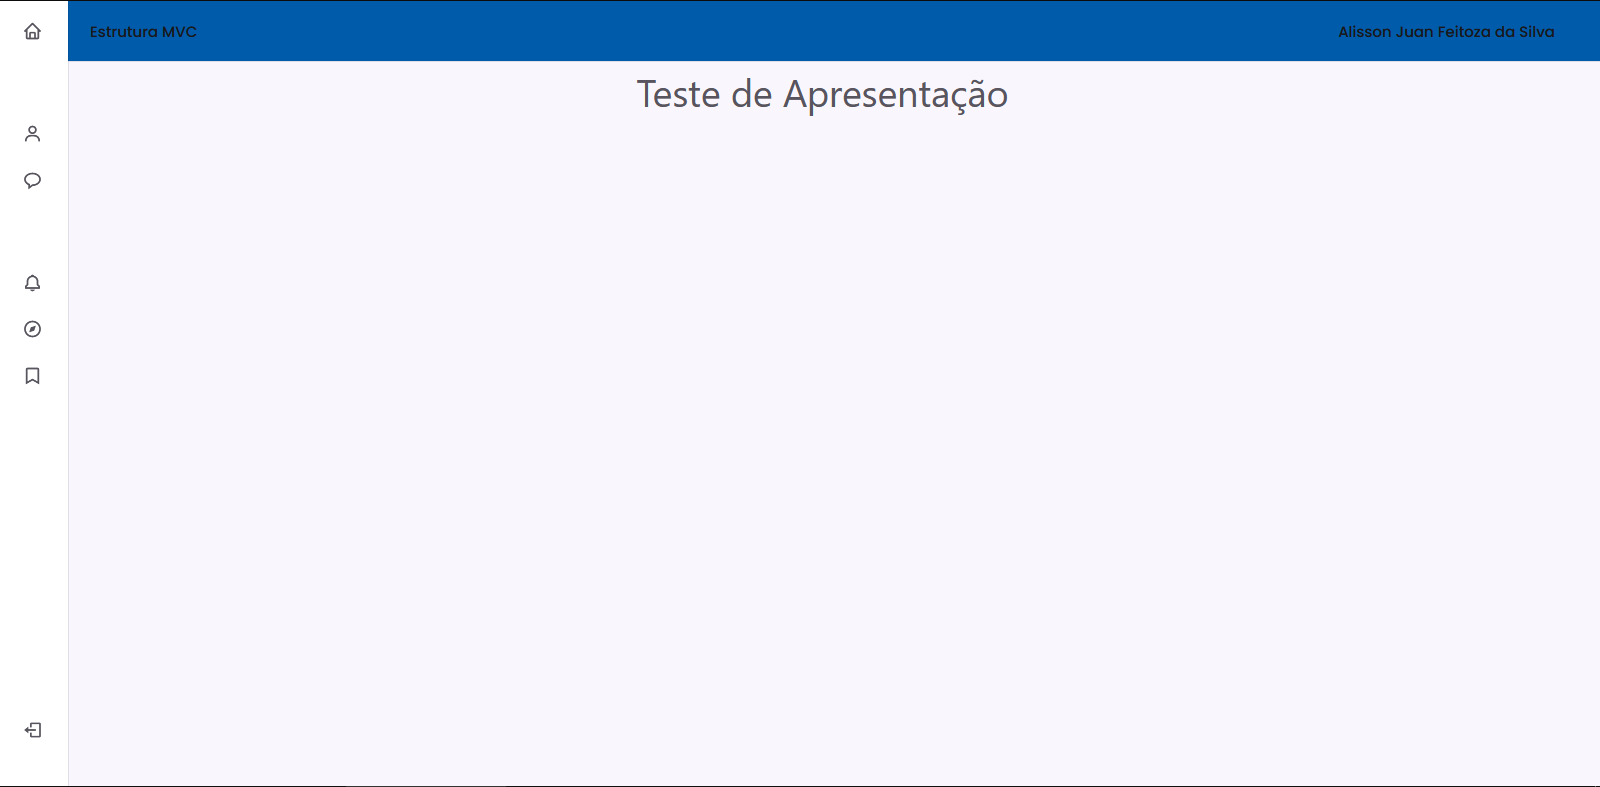
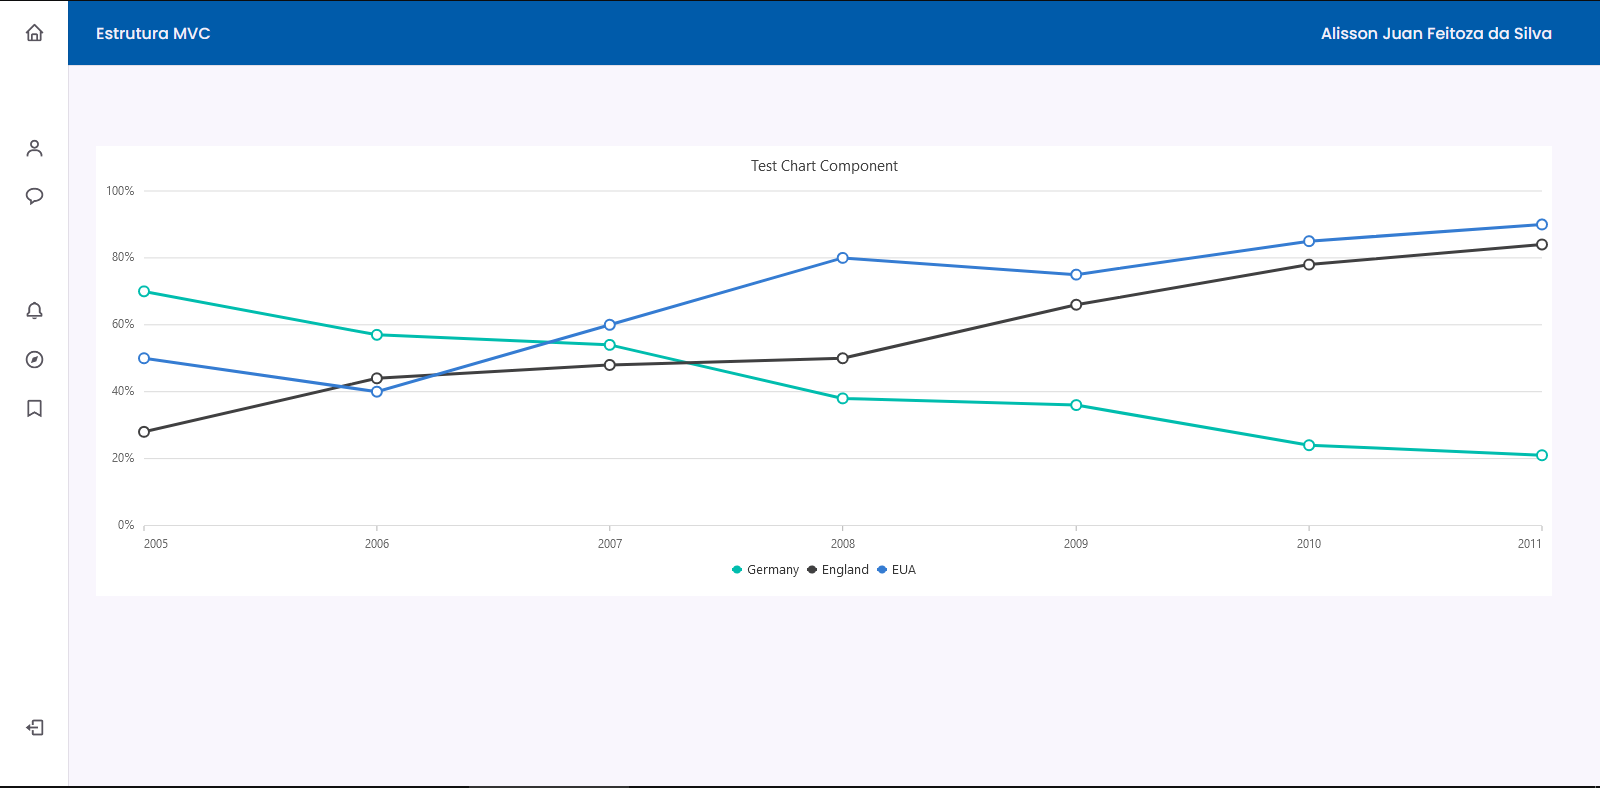
Update

diff --git a/views/index/app.vue.js b/views/index/app.vue.js
@@ -1,6 +1,6 @@
 const AppTemplate = `
 
-<div class="control-section">
+<div class="control-section" style="margin-top: 5%">
     <div align='center'>
         <ejs-chart
         style="display: block"
@@ -20,7 +20,7 @@ const AppTemplate = `
                 xName="x"
                 yName="y"
                 name="Germany"
-                width=2
+                width=3
                 :marker="marker"
                 ></e-series>
                 <e-series
@@ -29,7 +29,16 @@ const AppTemplate = `
                 xName="x"
                 yName="y"
                 name="England"
-                width=2
+                width=3
+                :marker="marker"
+                ></e-series>
+                <e-series
+                :dataSource="seriesData2"
+                type="Line"
+                xName="x"
+                yName="y"
+                name="EUA"
+                width=3
                 :marker="marker"
                 ></e-series>
             </e-series-collection>
@@ -44,13 +53,13 @@ Vue.component('AppVue', {
     data: function() {
         return {
             seriesData: [
-                { x: new Date(2005, 0, 1), y: 21 },
-                { x: new Date(2006, 0, 1), y: 24 },
-                { x: new Date(2007, 0, 1), y: 36 },
+                { x: new Date(2005, 0, 1), y: 70 },
+                { x: new Date(2006, 0, 1), y: 57 },
+                { x: new Date(2007, 0, 1), y: 54 },
                 { x: new Date(2008, 0, 1), y: 38 },
-                { x: new Date(2009, 0, 1), y: 54 },
-                { x: new Date(2010, 0, 1), y: 57 },
-                { x: new Date(2011, 0, 1), y: 70 }
+                { x: new Date(2009, 0, 1), y: 36 },
+                { x: new Date(2010, 0, 1), y: 24 },
+                { x: new Date(2011, 0, 1), y: 21 }
             ],
             seriesData1: [
                 { x: new Date(2005, 0, 1), y: 28 },
@@ -60,6 +69,15 @@ Vue.component('AppVue', {
                 { x: new Date(2009, 0, 1), y: 66 },
                 { x: new Date(2010, 0, 1), y: 78 },
                 { x: new Date(2011, 0, 1), y: 84 }
+            ],
+            seriesData2: [
+                { x: new Date(2005, 0, 1), y: 50 },
+                { x: new Date(2006, 0, 1), y: 40 },
+                { x: new Date(2007, 0, 1), y: 60 },
+                { x: new Date(2008, 0, 1), y: 80 },
+                { x: new Date(2009, 0, 1), y: 75 },
+                { x: new Date(2010, 0, 1), y: 85 },
+                { x: new Date(2011, 0, 1), y: 90 }
             ],
             //Initializing Primary X Axis
             primaryXAxis: {
@@ -93,7 +111,7 @@ Vue.component('AppVue', {
             tooltip: {
                 enable: true
             },
-            title: "Test Component"
+            title: "Test Chart Component"
         }
     },
     methods: {}

diff --git a/README.md b/README.md
@@ -1,1 +1,9 @@
-# VUE-JS
+# Bem Vindos ao MVC-VUE
+
+## Apresentação do Projeto
+
+Este projeto se baseia na mesma ideia do repositório "MVC", em que é apresentado
+uma estrutura que facilite a utilização de alguns componentes e o próprio uso
+da tecnologia (no caso o VUE com o Javascript e PHP)
+
+<img src="public/images/Screenshot_1.png">
